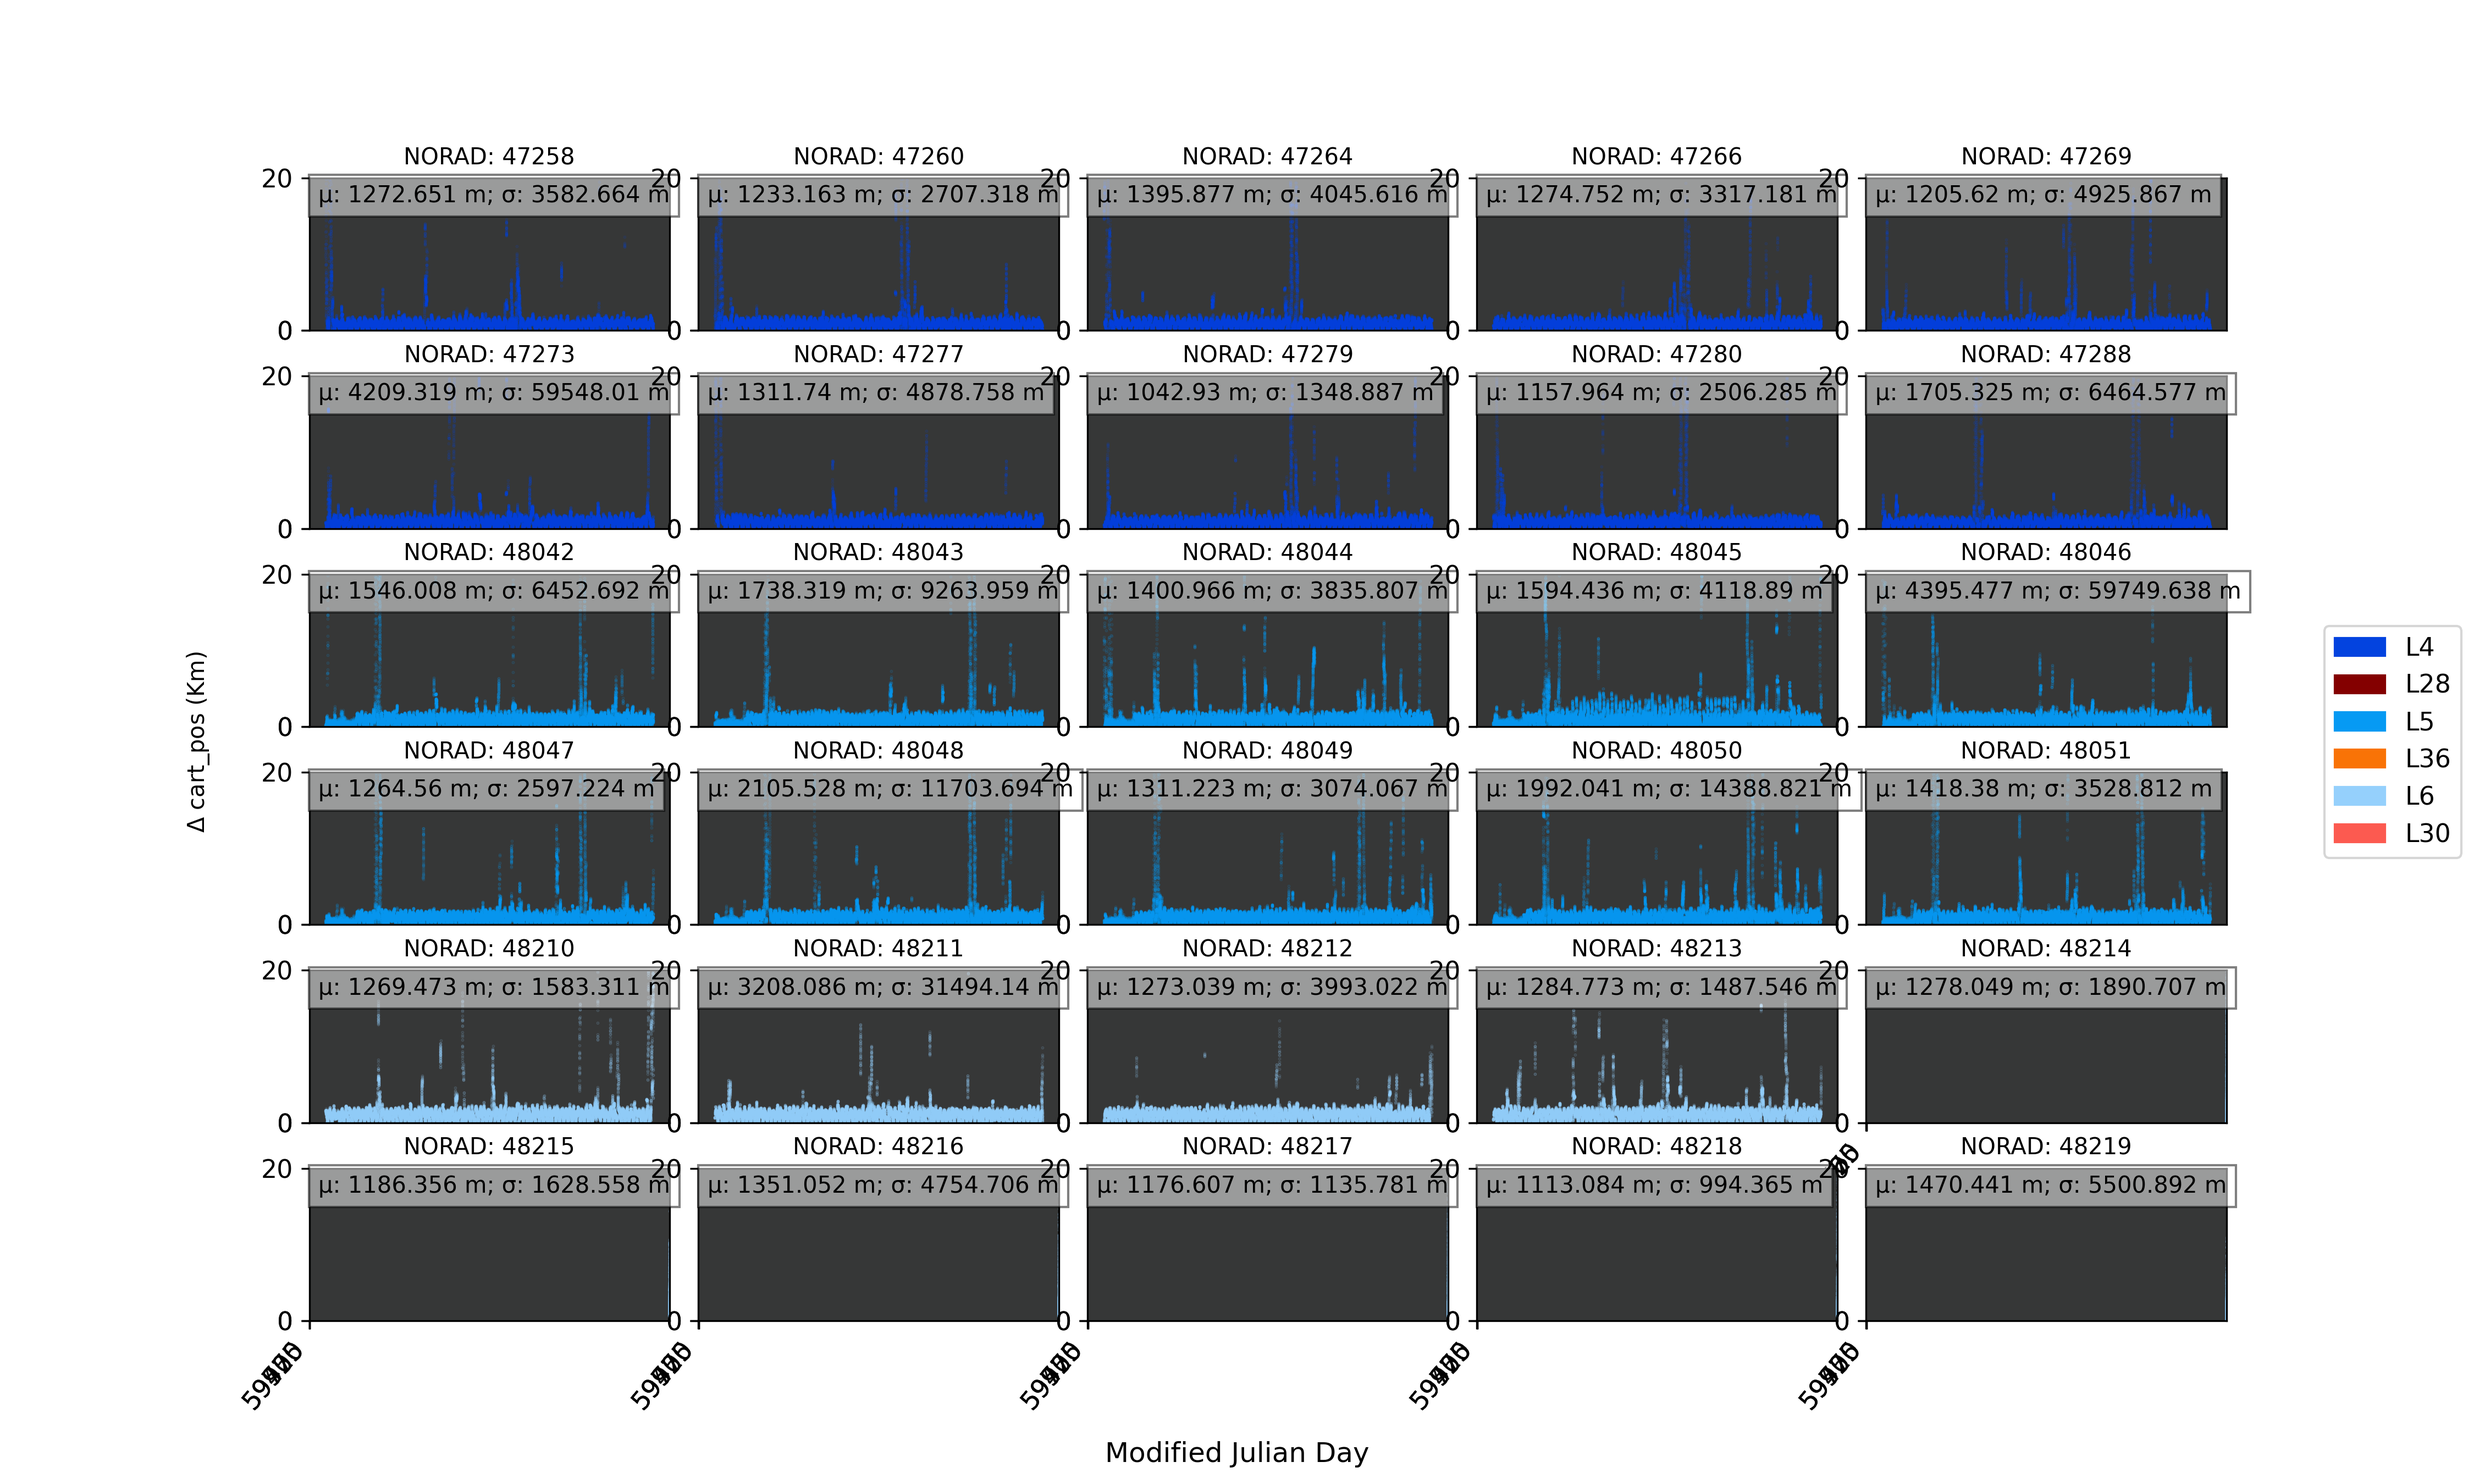
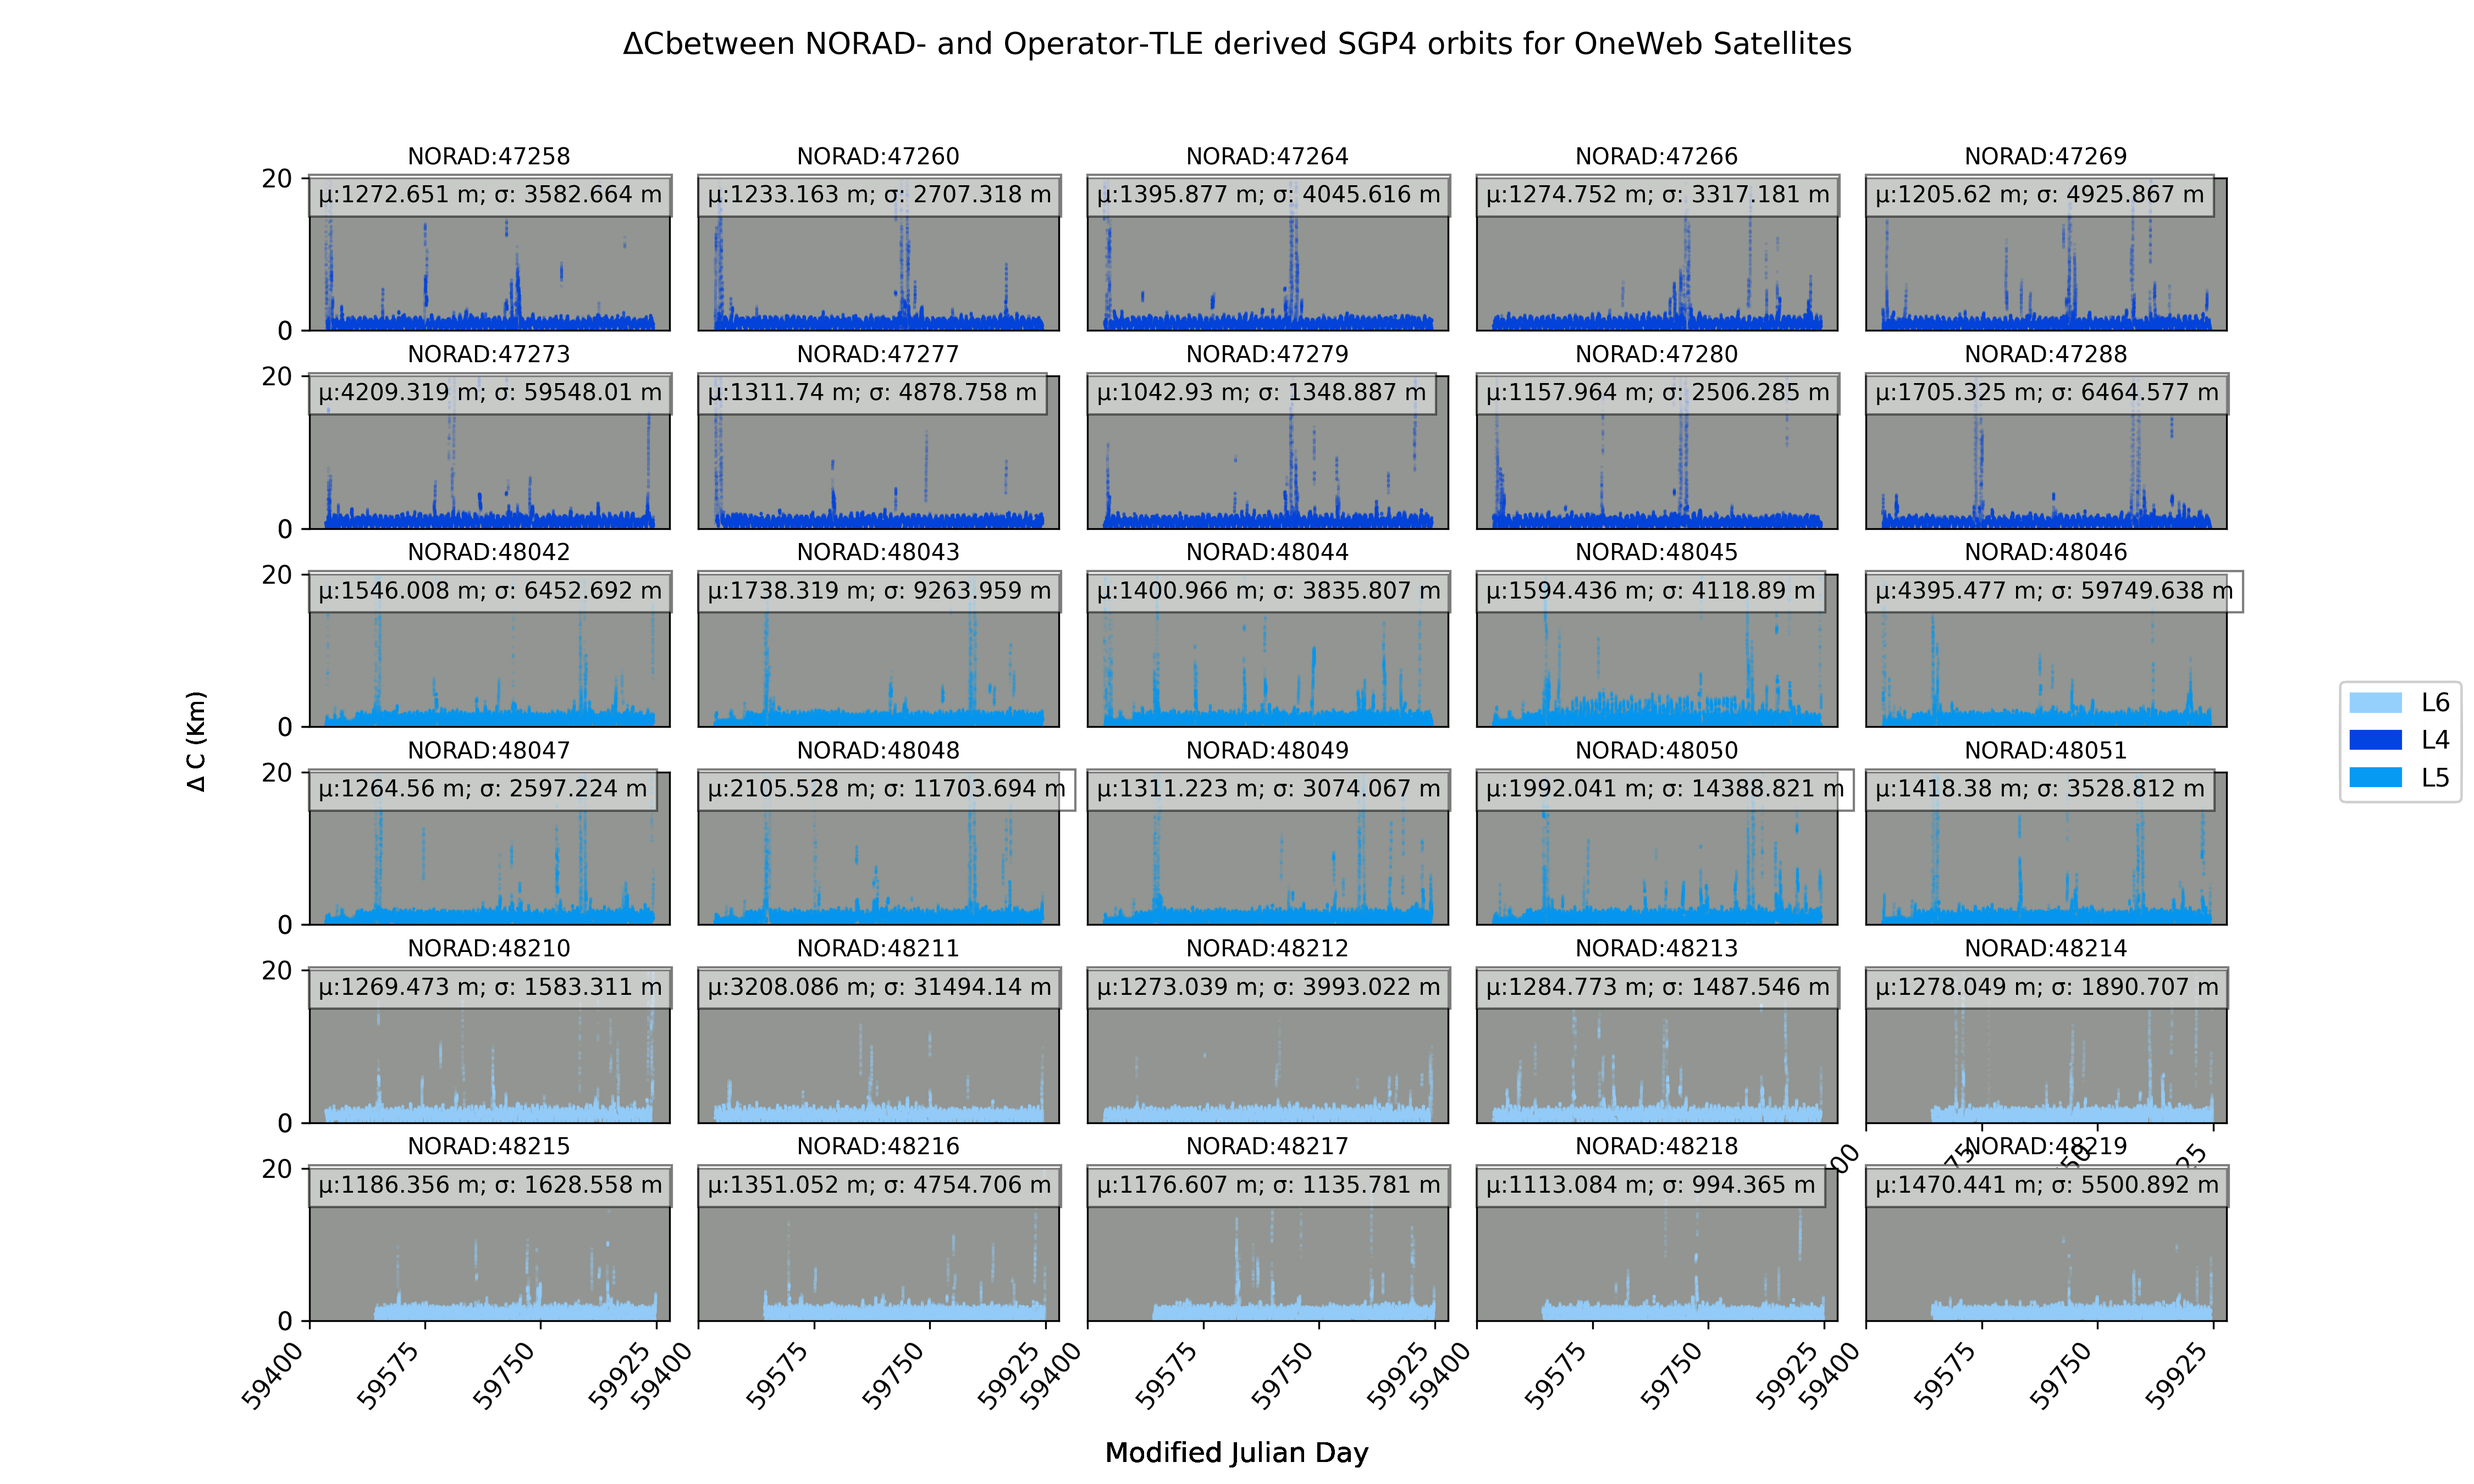
working diffs subplots- missing one starlink dataset?

diff --git a/source/tools/plotting_tools.py b/source/tools/plotting_tools.py
@@ -83,7 +83,7 @@ def plot_altitude_timeseries(dfs, json_filepath='external/selected_satellites.js
 
 def plot_fft_comparison(list_of_dfs: List[pd.DataFrame], diff_types: List[str] = diff_types, launch_colour_dict: Dict[str, str] = launch_colour_dict, show: bool = True) -> None:
     """
-    Plots the power spectral density of each dimension (H/C/L/3D) in the differences 
+    Plots the frequency and power spectral density  of each dimension (H/C/L/3D) time-series in the differences 
     between NORAD and operator TLEs for each launch.
     
     Args:
@@ -95,6 +95,7 @@ def plot_fft_comparison(list_of_dfs: List[pd.DataFrame], diff_types: List[str] =
     Returns:
         None: The function performs plotting operation and does not return any value.
     """
+
     grouped_dfs = {}
     for df in list_of_dfs:
         constellation = str(df['constellation'][0])
@@ -143,86 +144,82 @@ def plot_fft_comparison(list_of_dfs: List[pd.DataFrame], diff_types: List[str] =
 
             plt.savefig('output/plots/Fourier_analysis/{}_{}_fft.png'.format(constellation, diff_type), dpi=300)
             
-            if show == True:
+            if show:
                 plt.show()
 
-def plot_diff_subplots(list_of_dfs: List[pd.DataFrame], diff_types: List[str] = diff_types, launch_colour_dict: Dict[str, str] = launch_colour_dict, show: bool = True) -> None:
-    # Group dataframes by constellation
-    grouped_dfs = {}
-    for df in list_of_dfs:
-        constellation = str(df['constellation'][0])
-        if constellation not in grouped_dfs:
-            grouped_dfs[constellation] = [df]
-        else:
-            grouped_dfs[constellation].append(df)
+def plot_diff_subplots(sats_dataframe, diffs='all', show=False):
+    # Divide dataframes by constellation
+    constellation_dict = {}
+    for df in sats_dataframe:
+        constellation = df['constellation'][0]
+        if constellation not in constellation_dict:
+            constellation_dict[constellation] = []
+        constellation_dict[constellation].append(df)
 
-    # Loop through each constellation and plot dataframes
-    for constellation, sats_dataframe in grouped_dfs.items():
-        for diff_type in diff_types:
-            # sort the dfs in the list called sats_dataframe by increasing NORAD ID
+    if diffs == 'all':
+        diffs_types = np.array(diff_types)
+    else:
+        diffs_types = np.array(diffs)
+
+    for constellation, sats_dataframe in constellation_dict.items():
+        for j in range(0, len(diffs_types), 1):
+            diff_type = diffs_types[j]
             sats_dataframe.sort(key=lambda x: x['NORAD_ID'].iloc[0])
 
-            # Create subplot for each satellite
             fig, axs = plt.subplots(6, 5, figsize=(15, 9))
-            plotted_ids = []
+            fig.suptitle(r'$\Delta$' + diff_type[0].upper()+ 'between NORAD- and Operator-TLE derived SGP4 orbits for ' + constellation + ' Satellites')
+
             earliest_time = 59400
             latest_time = 59925
-            i = 0  # satellite counter
-            launch_present = set()  # To keep track of the launches present in the plot
-            
+            i = 0
+            used_colors = set()  # Store the used colors for legend
             for row in axs:
                 for ax in row:
                     if i < len(sats_dataframe):
                         df = sats_dataframe[i]
-                        launch = 'L' + str(df['launch_no'][0])
-                        col = launch_colour_dict.get(launch, 'black')
-                        launch_present.add(launch)
+                        launch = df['launch_no'][0]
+                        launch_key = 'L' + str(launch)
+                        if launch_key in launch_colour_dict:
+                            col = launch_colour_dict[launch_key]
+                            used_colors.add(launch_key)
+                        else:
+                            raise Exception('Launch key not found in launch_colour_dict')
 
                         ax.scatter(df['MJD'], df[diff_type], s=0.1, alpha=0.2, c=col)
                         ax.set_facecolor('xkcd:grey')
+                        ax.set_title('NORAD:' + str(df['NORAD_ID'][0]), fontsize=10)
 
-                        ax.set_title('NORAD: ' + str(df['NORAD_ID'][0]), fontsize=10)
+                        min_max_dict = {'h_diffs': (-2, 2), 'c_diffs': (-1, 1), 'l_diffs': (-20, 20),
+                                        'cart_pos_diffs': (0, 20)}
+                        min, max = min_max_dict.get(diff_type, (0, 0))
+                        ax.set_ylim(min, max)
+                        fig.text(0.08, 0.5, r'$\Delta$ ' + diff_type[0].upper() + ' (Km)', ha='center', va='center',
+                                 rotation='vertical', fontsize=10)
 
-                        # Configure plot limits and labels according to diff_type
-                        if diff_type == 'h_diffs':
-                            ax.set_ylim(-2, 2)
-                            fig.text(0.04, 0.5, 'Height Difference (km)', ha='center', va='center', rotation='vertical', fontsize=12)
-                        elif diff_type == 'c_diffs':
-                            ax.set_ylim(-0.0005, 0.0005)
-                            fig.text(0.04, 0.5, 'Cross-track Difference (km)', ha='center', va='center', rotation='vertical', fontsize=12)
-                        elif diff_type == 'l_diffs':
-                            ax.set_ylim(-0.01, 0.01)
-                            fig.text(0.04, 0.5, 'In-track Difference (km)', ha='center', va='center', rotation='vertical', fontsize=12)
-                        elif diff_type == 'cart_pos_diffs':
-                            ax.set_ylim(0, 5)
-                            fig.text(0.04, 0.5, '3D Position Difference (km)', ha='center', va='center', rotation='vertical', fontsize=12)
+                        if i > 23:
+                            ax.set_xticks(np.linspace(earliest_time, latest_time, 4))
                         else:
-                            raise ValueError('diff_type must be one of: {}'.format(diff_types))
+                            ax.set_xticks([])
+                        if i % 5 == 0:
+                            ax.set_yticks([min, 0, max])
+                        else:
+                            ax.set_yticks([])
 
-                        ax.set_xticks([] if i <= 23 else np.linspace(earliest_time, latest_time,4))
-                        # ax.set_yticks([] if i % 5 != 0 else [min_val, 0, max_val])
+                        ax.text(0.025, 0.96,
+                                'µ:' + str(round((df[diff_type].mean()) * 1000, 3)) + ' m' + '; ' + 'σ: ' + str(
+                                    round(df[diff_type].std() * 1000, 3)) + ' m', transform=ax.transAxes, fontsize=10,
+                                verticalalignment='top', bbox=dict(facecolor='white', alpha=0.5))
 
-                        ax.text(0.025, 0.96, 
-                                'µ:' + str(round((df[diff_type].mean())*1000, 3)) + ' m' + '; ' + 'σ: ' + str(round((df[diff_type].std())*1000, 3)) + ' m',
-                                transform=ax.transAxes,
-                                fontsize=10, 
-                                verticalalignment='top')
+                        fig.text(0.5, 0.02, 'Modified Julian Day', ha='center', va='center', fontsize=12)
 
+                        patch_list = [Patch(facecolor=launch_colour_dict[key], edgecolor=launch_colour_dict[key], label=key)
+                                      for key in used_colors]  # Change here, only include used colors
+                        fig.legend(patch_list, [key for key in used_colors], loc='center right')  # Change here, only include used colors
+
+                        plt.setp(ax.get_xticklabels(), rotation=50, ha="right", rotation_mode="default")
                         i += 1
 
-            # Custom legend with only the launches present in the plot
-            legend_elements = [Patch(facecolor=launch_colour_dict[l], label=l) for l in launch_present]
-            plt.legend(handles=legend_elements, bbox_to_anchor=(1.05, 1), loc='upper left')
-
-            # Remove axes for empty plots
-            for j in range(i, 30):
-                fig.delaxes(axs.flatten()[j])
-
-            fig.text(0.5, 0.04, 'Time (MJD days)', ha='center', va='center', fontsize=12)
-            fig.suptitle(constellation + ': ' + diff_type + ' Over Time', fontsize=16)
-            fig.tight_layout()
-
-            plt.savefig(f'output/plots/timseries_subplots/{constellation}_{diff_type}.png', dpi=300)
+            plt.subplots_adjust(hspace=0.3, wspace=0.08)
+            plt.savefig('output/plots/timseries_subplots/'+diff_type+'_subplots_'+constellation+'.png', dpi=300)
             if show:
                 plt.show()
-
